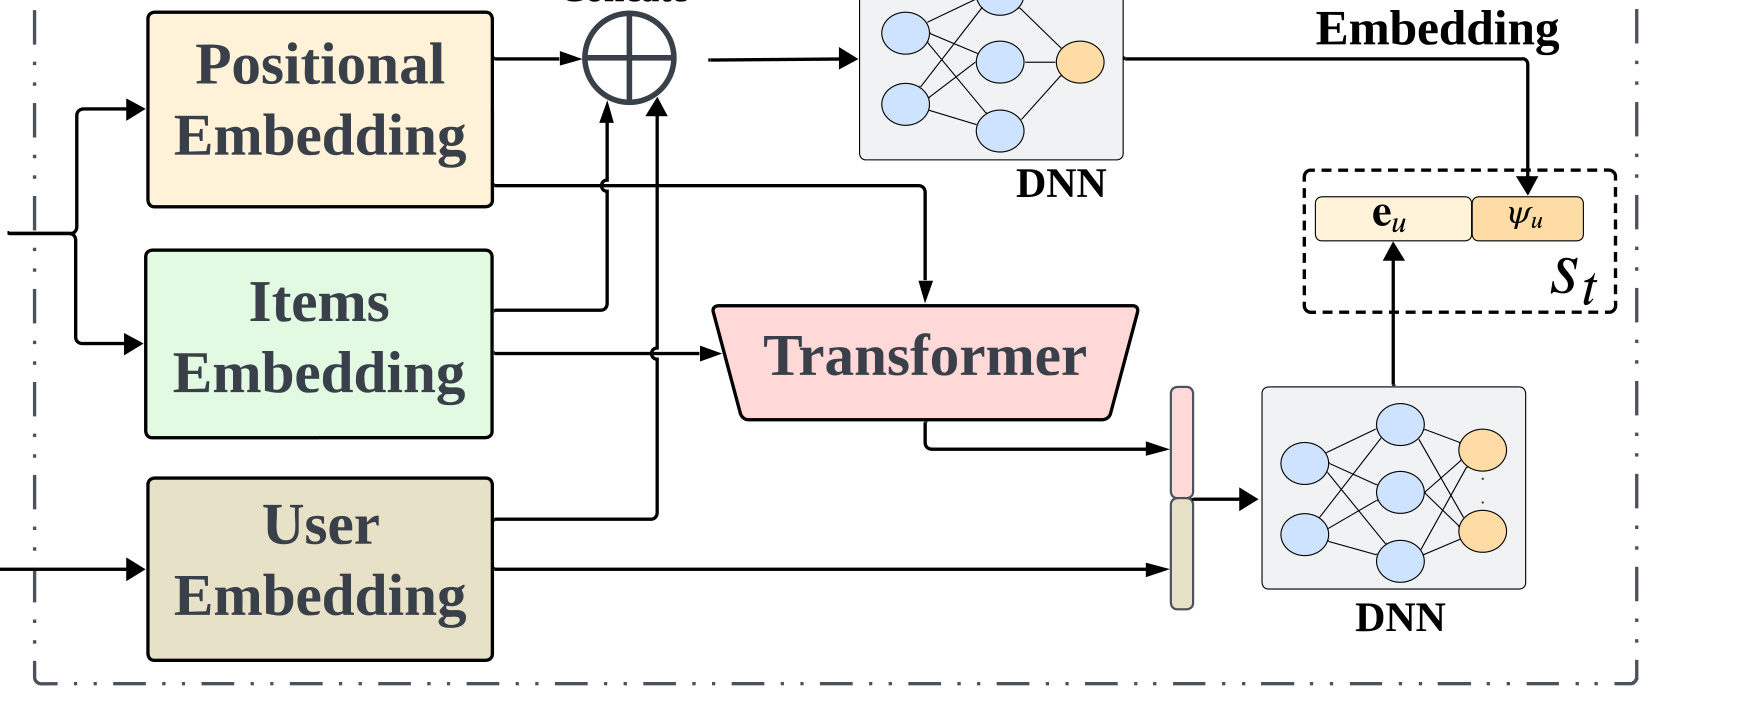
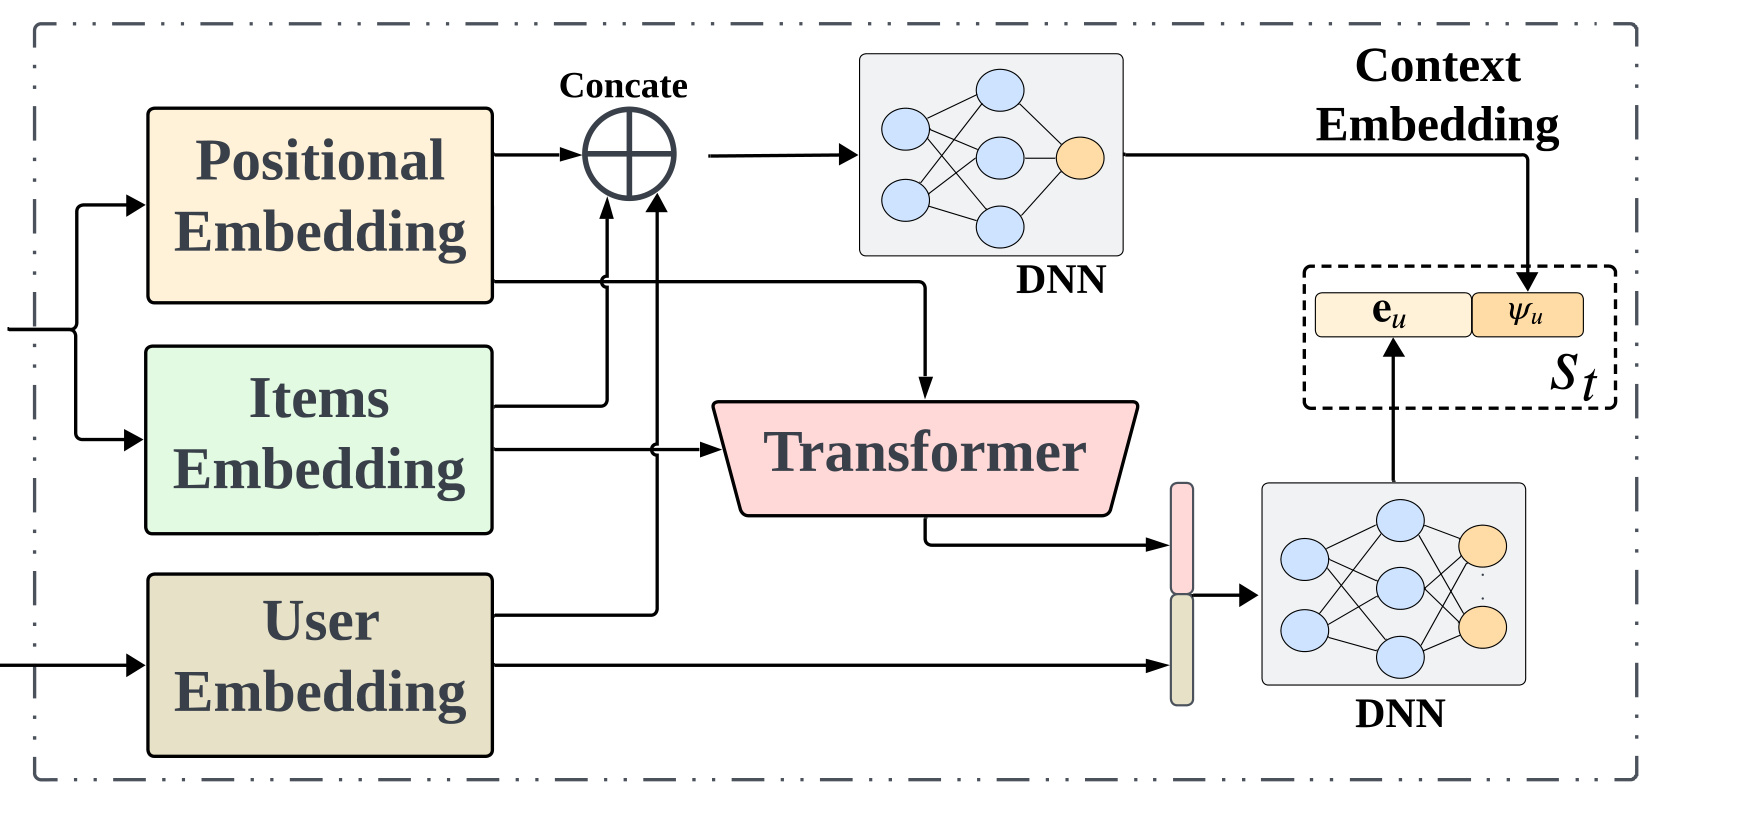
Fix gfn4retention note rendering

diff --git a/papers/gfn4retention.html b/papers/gfn4retention.html
@@ -69,8 +69,7 @@
 <p>推荐系统线上优化最熟悉的是点击、点赞、完播、评论、转发、收藏、购买等即时反馈。它们有两个优点：发生在推荐动作之后，日志容易对齐；样本密度相对高，适合训练监督学习或强化学习模型。但如果只看即时反馈，系统很容易优化成“用户此刻是否被吸引”，而不是“用户是否愿意持续回来”。论文从短视频和在线服务的运营目标出发，把 user retention 作为比单次 item 反馈更接近长期满意度的指标。用户留存通常和 DAU、活跃稳定性、服务质量感知有关，尤其在内容平台里，用户是否在离开后再次打开应用，往往比某条内容有没有被点开更能反映推荐策略是否健康。</p>
 <p>留存目标困难的地方在于它不是一步反馈。一次会话中，系统可能连续推荐几十个 item，用户在其中点击、观看、点赞或无反馈；随后用户离开，再过一段时间才可能回到下一次 session。这个返回行为发生在会话之后，中间还有不可观测的外部因素，例如用户忙不忙、是否被其他应用吸引、现实生活中有没有空闲时间。即使我们观测到用户第二天回来了，也很难说是哪一个推荐动作导致了返回。传统监督学习会把每个推荐请求当成局部样本，优化 CTR 或 watch time；强化学习会把 session 看成 MDP，试图最大化累计 reward；但如果最终目标是跨 session retention，单纯累计即时 reward 只是 surrogate，并不能解释每一步 action 对最终留存的归因。</p>
 <p>已有的 RL-based retention optimization 有价值，但论文指出两类缺口。第一，RL 通常需要在 exploitation 和 exploration 之间做权衡，而留存这种不稳定、延迟、稀疏目标会放大探索风险：线上探索错误可能直接影响用户体验，离线 simulator 又未必完全还原真实用户。第二，RL 里的长期价值估计虽然能纳入 delayed reward，却不天然给出“留存奖励如何分摊到每个推荐动作”的结构。比如一次 session 中有一条内容非常相关，另一条内容很差，用户仍然可能因为整体印象尚可而回来；如果只把整段 session 的结果当作统一回报，模型可能无法区分每个步骤对满意度的贡献。</p>
-<p>GFN4Retention 的问题定义因此比普通排序更接近“生成一次让用户愿意回来的推荐轨迹”。论文把 session 中的状态序列 $
-obreak\mathbf{S}={s_1\rightarrow s_2\rightarrow\cdots\rightarrow s_T}<span class="math-inline">$ 看成由推荐策略生成的 trajectory。每一步状态 $</span>s_t<span class="math-inline">$ 对应用户请求和上下文，action $</span>a_t<span class="math-inline">$ 对应一个推荐列表，用户给出即时反馈 $</span>r_t<span class="math-inline">$；终态 $</span>s_T<span class="math-inline">$ 之后才观测到 retention reward $</span>\mathcal{R}<span class="math-inline">$。模型要做两件事：一是设计一个能够同时结合 $</span>r_1,\ldots,r_T<span class="math-inline">$ 和 $</span>\mathcal{R}$ 的 session-level reward；二是学习一个推荐策略，在保持探索能力的同时优化这个组合 reward。</p>
+<p>GFN4Retention 的问题定义因此比普通排序更接近“生成一次让用户愿意回来的推荐轨迹”。论文把 session 中的状态序列 <span class="math-inline">$\mathbf{S}=\{s_1\rightarrow s_2\rightarrow\cdots\rightarrow s_T\}$</span> 看成由推荐策略生成的 trajectory。每一步状态 <span class="math-inline">$s_t$</span> 对应用户请求和上下文，action <span class="math-inline">$a_t$</span> 对应一个推荐列表，用户给出即时反馈 <span class="math-inline">$r_t$</span>；终态 <span class="math-inline">$s_T$</span> 之后才观测到 retention reward <span class="math-inline">$\mathcal{R}$</span>。模型要做两件事：一是设计一个能够同时结合 <span class="math-inline">$r_1,\ldots,r_T$</span> 和 <span class="math-inline">$\mathcal{R}$</span> 的 session-level reward；二是学习一个推荐策略，在保持探索能力的同时优化这个组合 reward。</p>
 <p>这篇论文的关键想法是借用 Generative Flow Networks 的“概率流”视角。GFN 原本用于从复杂分布中生成高 reward、多样化的对象，它不是只找单个最大 reward 解，而是学习让生成概率和 reward 成比例的策略。放到推荐系统里，session 就是生成对象，留存奖励就是终点 reward，中间每一步推荐动作都在推动轨迹走向某个终态。这样，留存不再只是最后给整段序列打一个分，而可以通过 flow matching 和 detailed balance 学习目标，把终态奖励反向分配给中间状态和动作。</p>
 <p>这个建模角度对推荐工程有一个明确启发：留存优化不应只是在已有 ranker 之后加一个 retention model，也不应只把 watch time、click 和 return day 硬凑成线性多目标。更合理的方式是把“会话如何被生成”本身纳入目标，使每一步 action 的概率既受即时反馈约束，也受未来留存流约束。GFN4Retention 的贡献就在这里：它把推荐策略看成 forward flow，把留存估计看成 state flow，把即时反馈变成非参数的流因子，然后推导出一个 refined DB loss，使每一步 loss 中只出现对应步骤的即时奖励，同时终态仍然匹配留存奖励。</p>
 <p>因此，这篇论文的背景价值并不只在“多优化一个留存指标”，而在于它把业务上最难解释的延迟目标转成了可训练的轨迹分布。只要这个分布能被稳定学习，推荐系统就可以在不放弃点击、观看这类密集信号的前提下，把用户是否愿意再次回来纳入同一条决策链路。</p>
